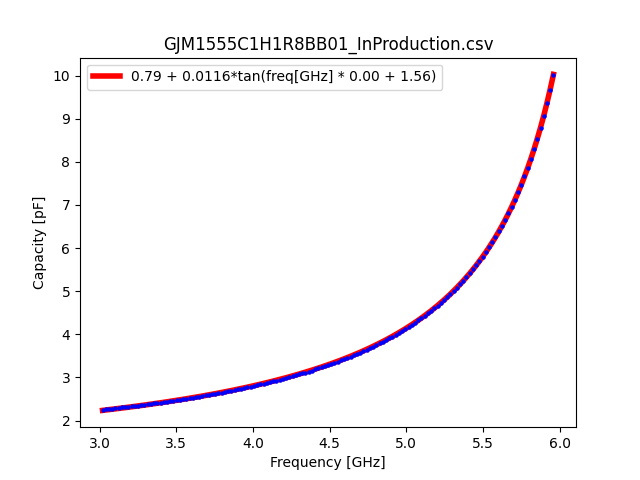
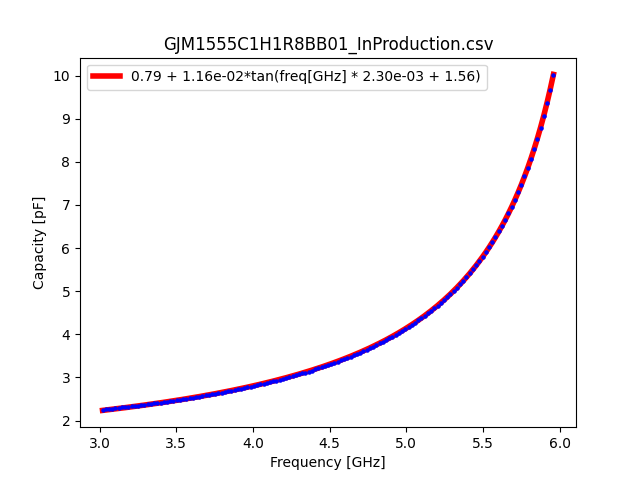
:+1: Update :

Changed region(s): [[0.2812, 0.125, 0.75, 0.1875]]

diff --git a/fitting.py b/fitting.py
@@ -66,7 +66,7 @@ for file_name in files:
 
     plt.scatter(freq, cap, s=5, c='blue', zorder=2)
     # plt.plot(freq, func(freq, *popt), lw=4, c='red', zorder=1, label='{:.2E} + {:.2E}*exp(freq[GHz] * {:.2E} + {:.2E})'.format(*popt))
-    plt.plot(freq, func(freq, *popt), lw=4, c='red', zorder=1, label='{:.2f} + {:.4f}*tan(freq[GHz] * {:.2f} + {:.2f})'.format(*popt))
+    plt.plot(freq, func(freq, *popt), lw=4, c='red', zorder=1, label='{:.2f} + {:.2e}*tan(freq[GHz] * {:.2e} + {:.2f})'.format(*popt))
     plt.title(file_name.split('/')[-1])
     plt.xlabel('Frequency [GHz]')
     plt.ylabel('Capacity [pF]')
